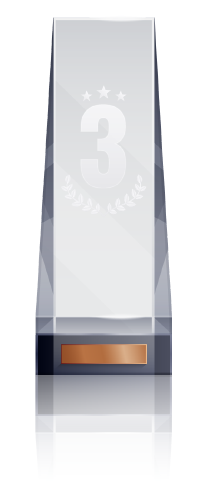
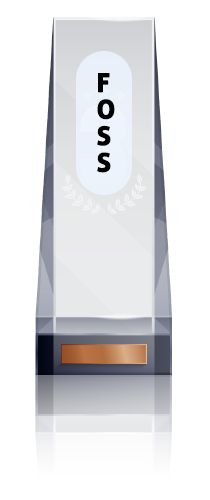
image added

Changed region(s): [[0.3429, 0.09, 0.6286, 0.36]]

diff --git a/style.css b/style.css
@@ -1013,6 +1013,7 @@ font-weight: bold;
   flex-basis: 100%;
   margin-top: 70px;
   margin-bottom: 20px;
+  gap: 20px;
 
 }
 .bo-box{
@@ -1142,11 +1143,14 @@ font-weight: bold;
   width: 100%;
   height: 70%;
   flex-basis: 20%;
+  display: flex;
+  justify-content: center;
   background: rgb(0 27 66 / 15%);
   backdrop-filter: blur( 3px );
   -webkit-backdrop-filter: blur( 3px );
   border-radius: 10px;
   border-right: 1px solid rgba( 255, 255, 255, 0.18 );
+  align-items: center;
 
 
 }
@@ -1391,7 +1395,7 @@ height: 70px;
   }
   
 .footer{
-  min-height: 200px;
+  min-height: 100px;
   width: 100%;
   background: rgb(11 0 56 / 77%);
   display: flex;
@@ -1400,7 +1404,7 @@ height: 70px;
   flex-direction: row;
   display: flex;
   flex-wrap: wrap;
-  margin-top: 1.25rem;
+  margin-top: 0;
   border-top: 2px solid rgb(255 255 255 / 27%);
 
 }

diff --git a/index.html b/index.html
@@ -357,7 +357,7 @@
         
                             <div class="prize-box" data-aos="fade-up" id="box-3">
                              <div class="prize-content-img">
-                                 <!-- <img src="image/prize4.png"> -->
+                                 <img src="image/prize4.png">
         
                              </div>
                              <div class="prize-content-text">
